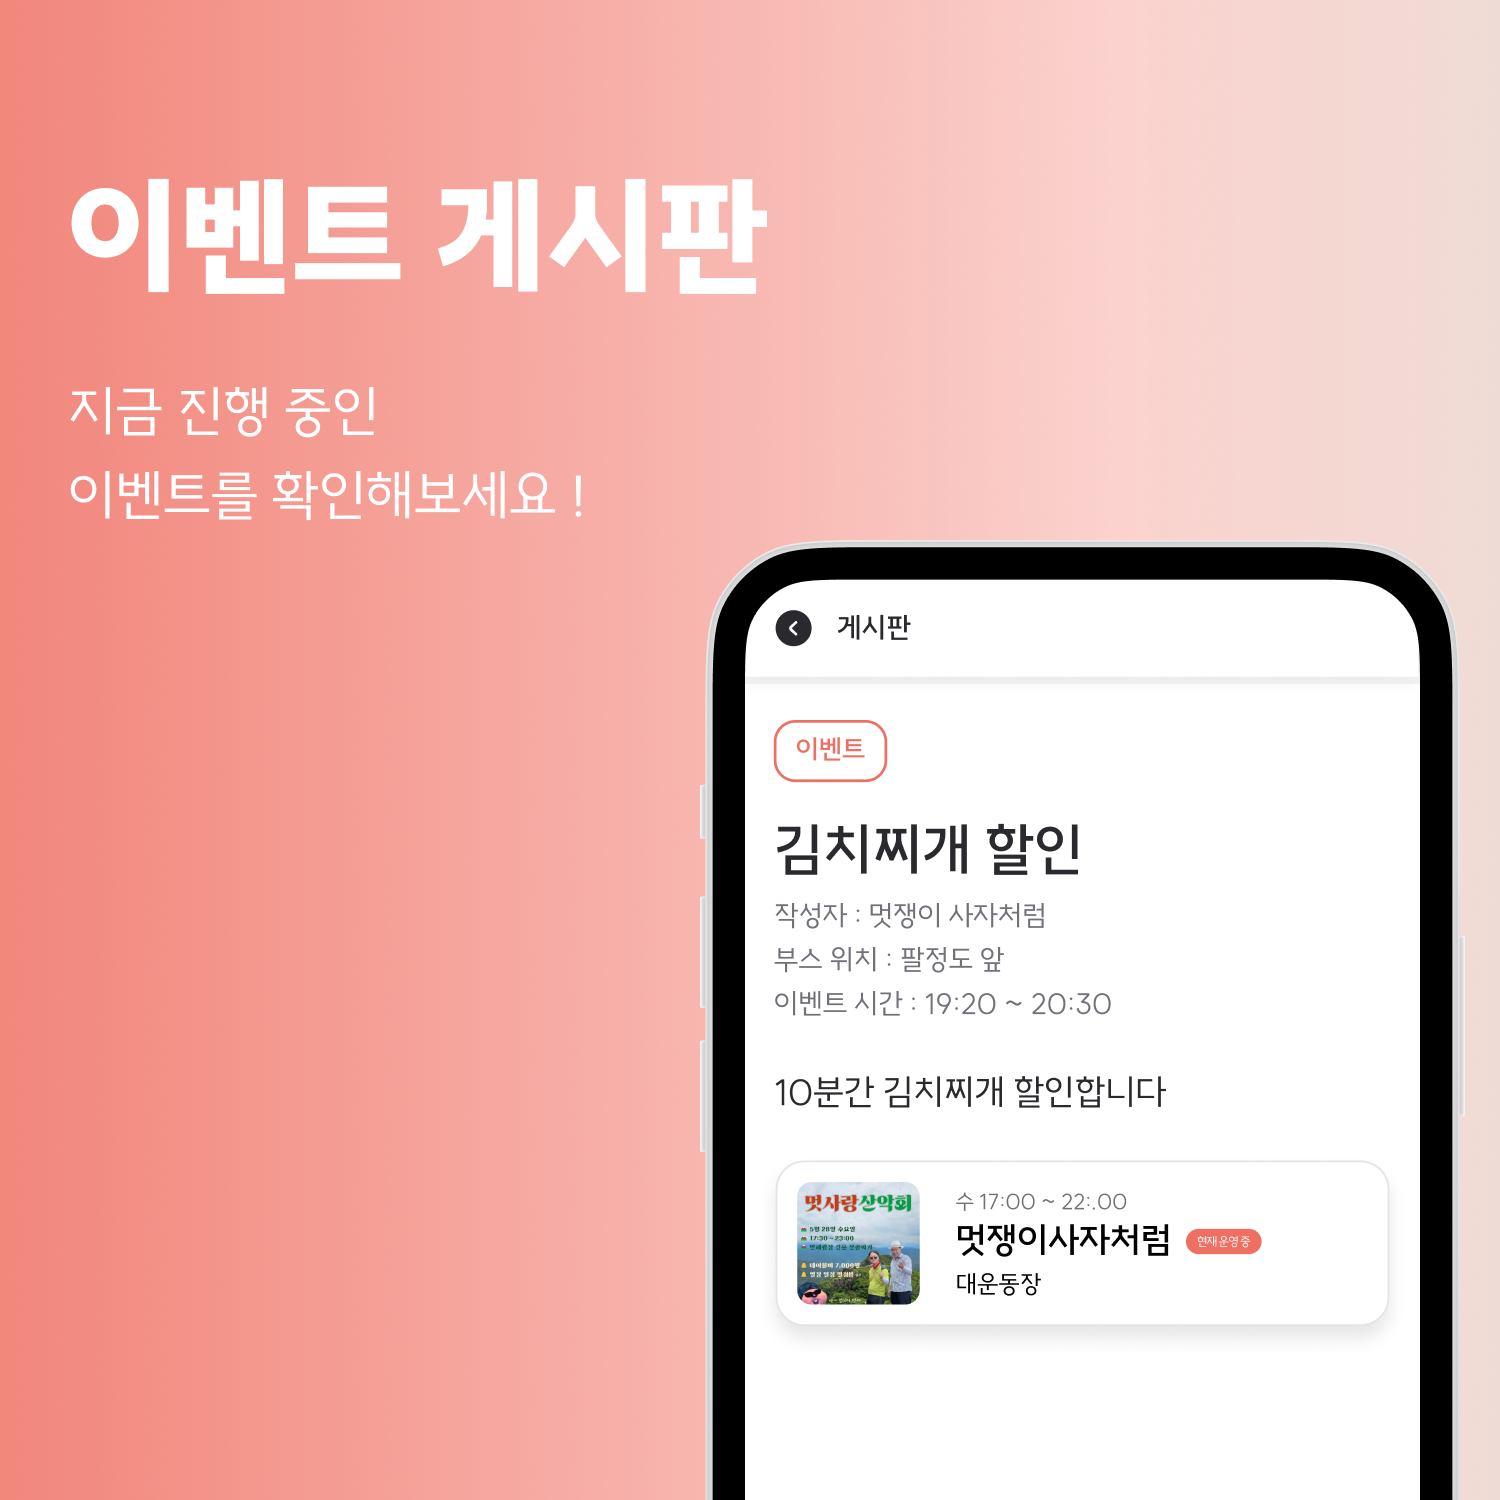
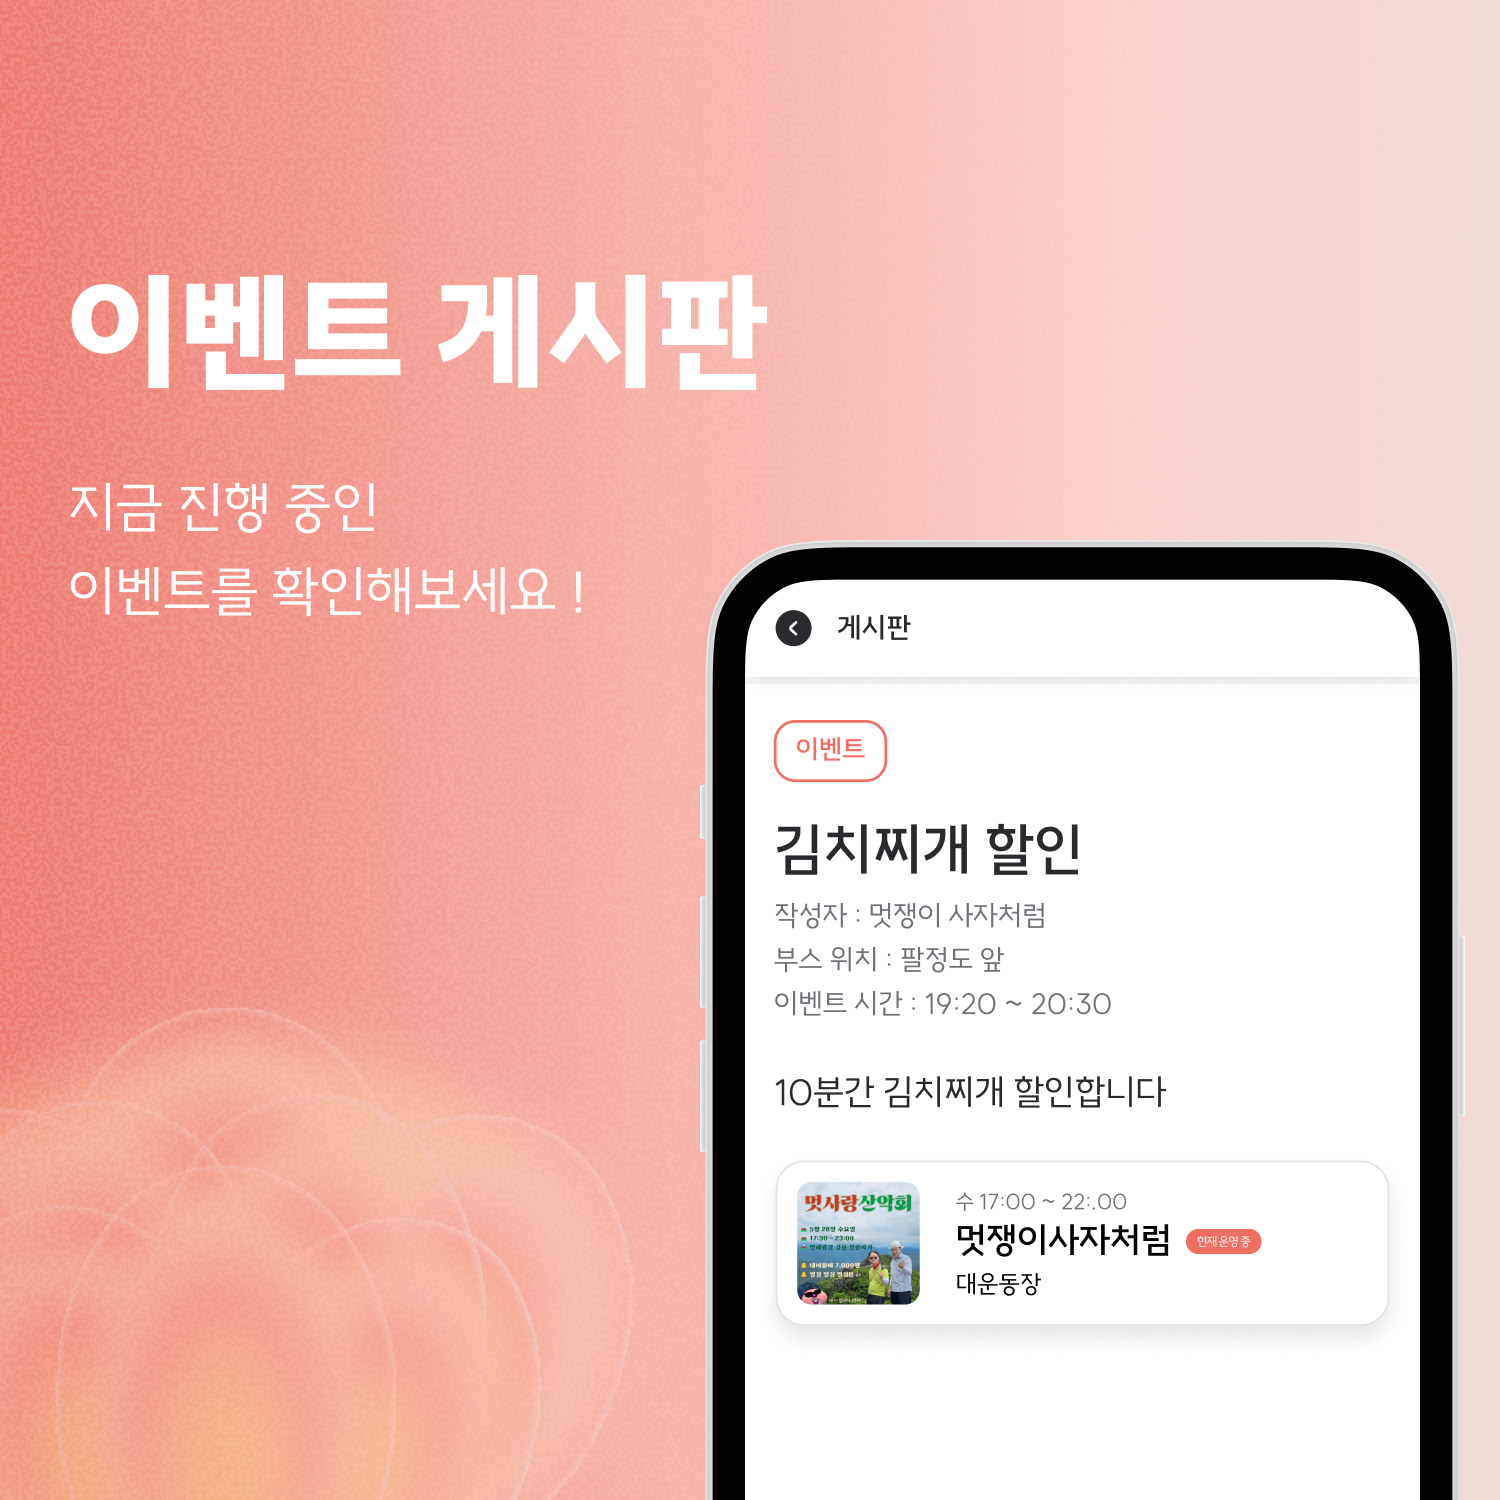
💄 Fix: 세부 디자인 수정
세부 디자인 수정

diff --git a/src/components/Footer/Footer.jsx b/src/components/Footer/Footer.jsx
@@ -1,30 +1,32 @@
 import React from "react";
 import { Link } from "react-router-dom";
 
-import dirvana from "../../assets/images/icons/logo/dirvanablack.svg";
-import dorder from "../../assets/images/icons/logo/dorder.svg";
-import likelion from "../../assets/images/icons/logo/likeliongray.svg";
-import instagram from "../../assets/images/icons/logo/instagram.svg";
+import dirvana from "../../assets/images/icons/logo/dirvanawhite.png";
+import dorder from "../../assets/images/icons/logo/dorder.png";
+import likelion from "../../assets/images/icons/logo/likelionwhite.png";
+import instagram from "../../assets/images/icons/logo/instagram.png";
+import line from "../../assets/images/icons/logo/line.svg";
 
 const Footer = () => {
   const fontClass = "text-center whitespace-nowrap font-normal";
   return (
     <footer
       className={`flex flex-col items-center justify-between
-      w-full max-h-[350px] gap-[32px]
+      w-full max-h-[350px]
       px-[36px] py-[50px] 
-      bg-[#E4E4E7]`}
+      bg-[#F3CDC9]`}
     >
-      <div className={`flex justify-between h-9 gap-10`}>
-        <img src={dirvana} alt="DIRVANA" className="w-[132px]" />
-        <img src={dorder} alt="Dorder" className="w-44" />
+      <img src={line} alt="Line" className="w-full mb-[42px]" />
+      <div className={`flex justify-between items-center h-9 gap-10 mb-[36px]`}>
+        <img src={dirvana} alt="DIRVANA" className="w-[93px] h-[18.12px]" />
+        <img src={dorder} alt="Dorder" className="w-[96px] h-[26.42px]" />
       </div>
 
       {/* 텍스트 영역 */}
-      <div className="flex flex-col items-center w-[156px] gap-2 ">
+      <div className="flex flex-col items-center gap-2 ">
         {/* 검정 */}
         <span
-          className={`${fontClass} font-pretendard font-normal text-[var(--Neutral-600,#2A2A2E)]`}
+          className={`${fontClass} font-pretendard font-normal text-white mb-[8px]`}
         >
           동국대학교 멋쟁이사자처럼
           <br />
@@ -33,7 +35,7 @@ const Footer = () => {
 
         {/* 회색 */}
         <span
-          className={`${fontClass} font-pretendard font-light text-[var(--Neutral-300,#A1A1AA)]`}
+          className={`${fontClass} font-pretendard font-light text-white mb-[27px]`}
         >
           @Data supported by 축제기획단
         </span>
@@ -41,13 +43,13 @@ const Footer = () => {
         {/* 로고 + 텍스트 */}
         <div className="flex justify-center items-center gap-6 mt-2">
           {/* likelion */}
-          <Link to="/developers">
-            <div className="flex flex-col justify-center items-center gap-1">
-              <img src={likelion} alt="LIKELION" />
+          <Link to="/admin/login">
+            <div className="flex justify-center items-center gap-1">
+              <img src={likelion} alt="LIKELION" className="w-[23px] h-[13px]" />
               <span
-                className={`${fontClass} font-pretendard font-normal text-[var(--Neutral-300,#A1A1AA)]`}
+                className={`${fontClass} font-suite font-normal text-[11px] text-white`}
               >
-                DEVELOPERS
+                Administrator
               </span>
             </div>
           </Link>
@@ -58,12 +60,12 @@ const Footer = () => {
             target="_blank"
             rel="noopener noreferrer"
           >
-            <div className="flex flex-col justify-center items-center gap-1">
-              <img src={instagram} alt="Instagram" />
+            <div className="flex justify-center items-center gap-[6px]">
+              <img src={instagram} alt="Instagram" className="w-[15px] h-[15px]"/>
               <span
-                className={`${fontClass} font-pretendard font-normal text-[var(--Neutral-300,#A1A1AA)]`}
+                className={`${fontClass} font-suite font-normal text-[11px] text-white`}
               >
-                INSTAGRAM
+                Instagram
               </span>
             </div>
           </a>

diff --git a/src/components/HomepageComponents/Banner.jsx b/src/components/HomepageComponents/Banner.jsx
@@ -24,7 +24,7 @@ const Banner = () => {
       alt: "축제 배너 2",
       hasButton: true,
       buttonText: "이벤트 참여",
-      buttonPosition: { top: "40%", left: "4%" },
+      buttonPosition: { top: "48%", left: "4%" },
     },
     {
       id: 3,
@@ -32,7 +32,7 @@ const Banner = () => {
       alt: "축제 배너 3",
       hasButton: true,
       buttonText: "게임하기",
-      buttonPosition: { top: "65%", left: "5%" },
+      buttonPosition: { top: "65%", left: "6%" },
     },
     {
       id: 4,

diff --git a/src/pages/Developers/Developers.jsx b/src/pages/Developers/Developers.jsx
@@ -17,7 +17,7 @@ function Developers() {
   return (
     <div className="bg-white min-h-screen pt-[30px] pb-[70px] px-4">
       <div className="flex flex-col items-center justify-center">
-        <p className="text-[10px] font-normal">멋쟁이사자처럼 13기</p>
+        <p className="text-[12px] font-normal">멋쟁이사자처럼 13기</p>
         <p className="text-[32px] font-semibold">Developers</p>
         <div className="w-[86px] h-[2px] bg-[#F8B0A9] mt-[16px] mb-[34px]"></div>
       </div>

diff --git a/src/components/Header/Header.jsx b/src/components/Header/Header.jsx
@@ -21,7 +21,7 @@ const Header = () => {
         {/* 번역버튼 */}
         <TranslateBtn />
         {/* 오른쪽 로고 */}
-        <Link to="/admin/login">
+        <Link to="/developers">
           <img src={likelion} alt="ADMIN" className="h-full w-auto m-[10px]" />
         </Link>
       </div>
